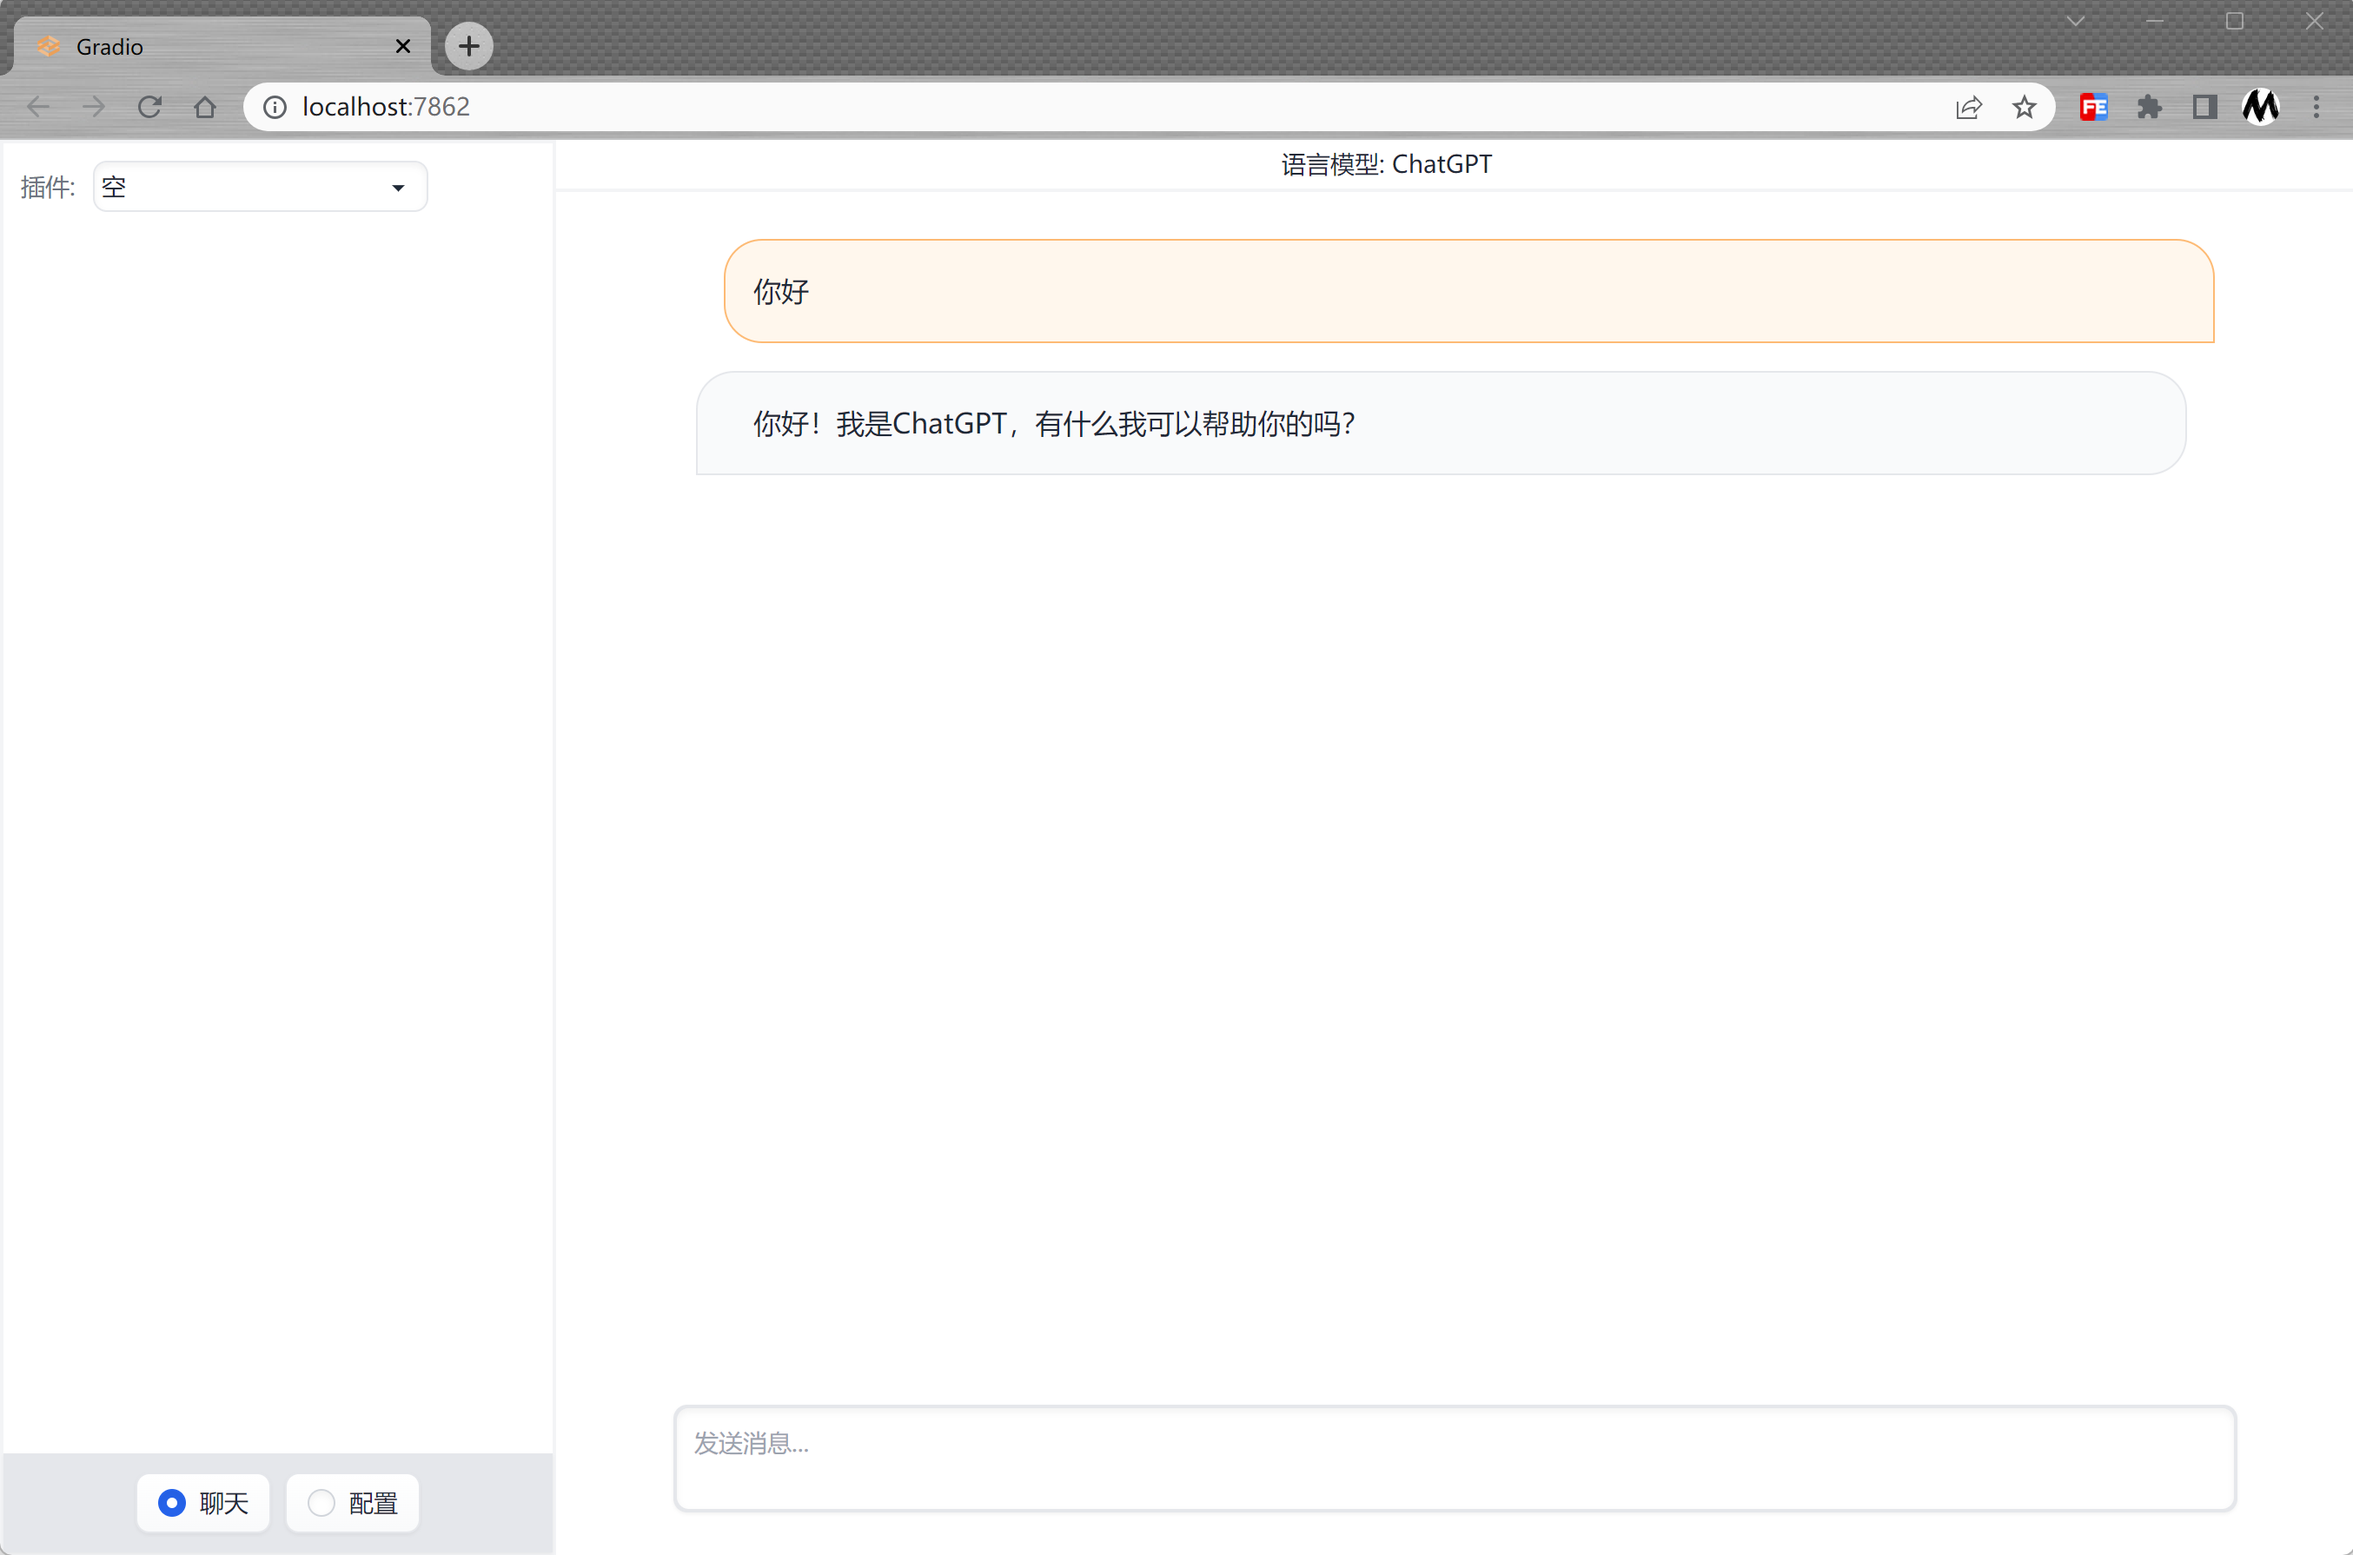
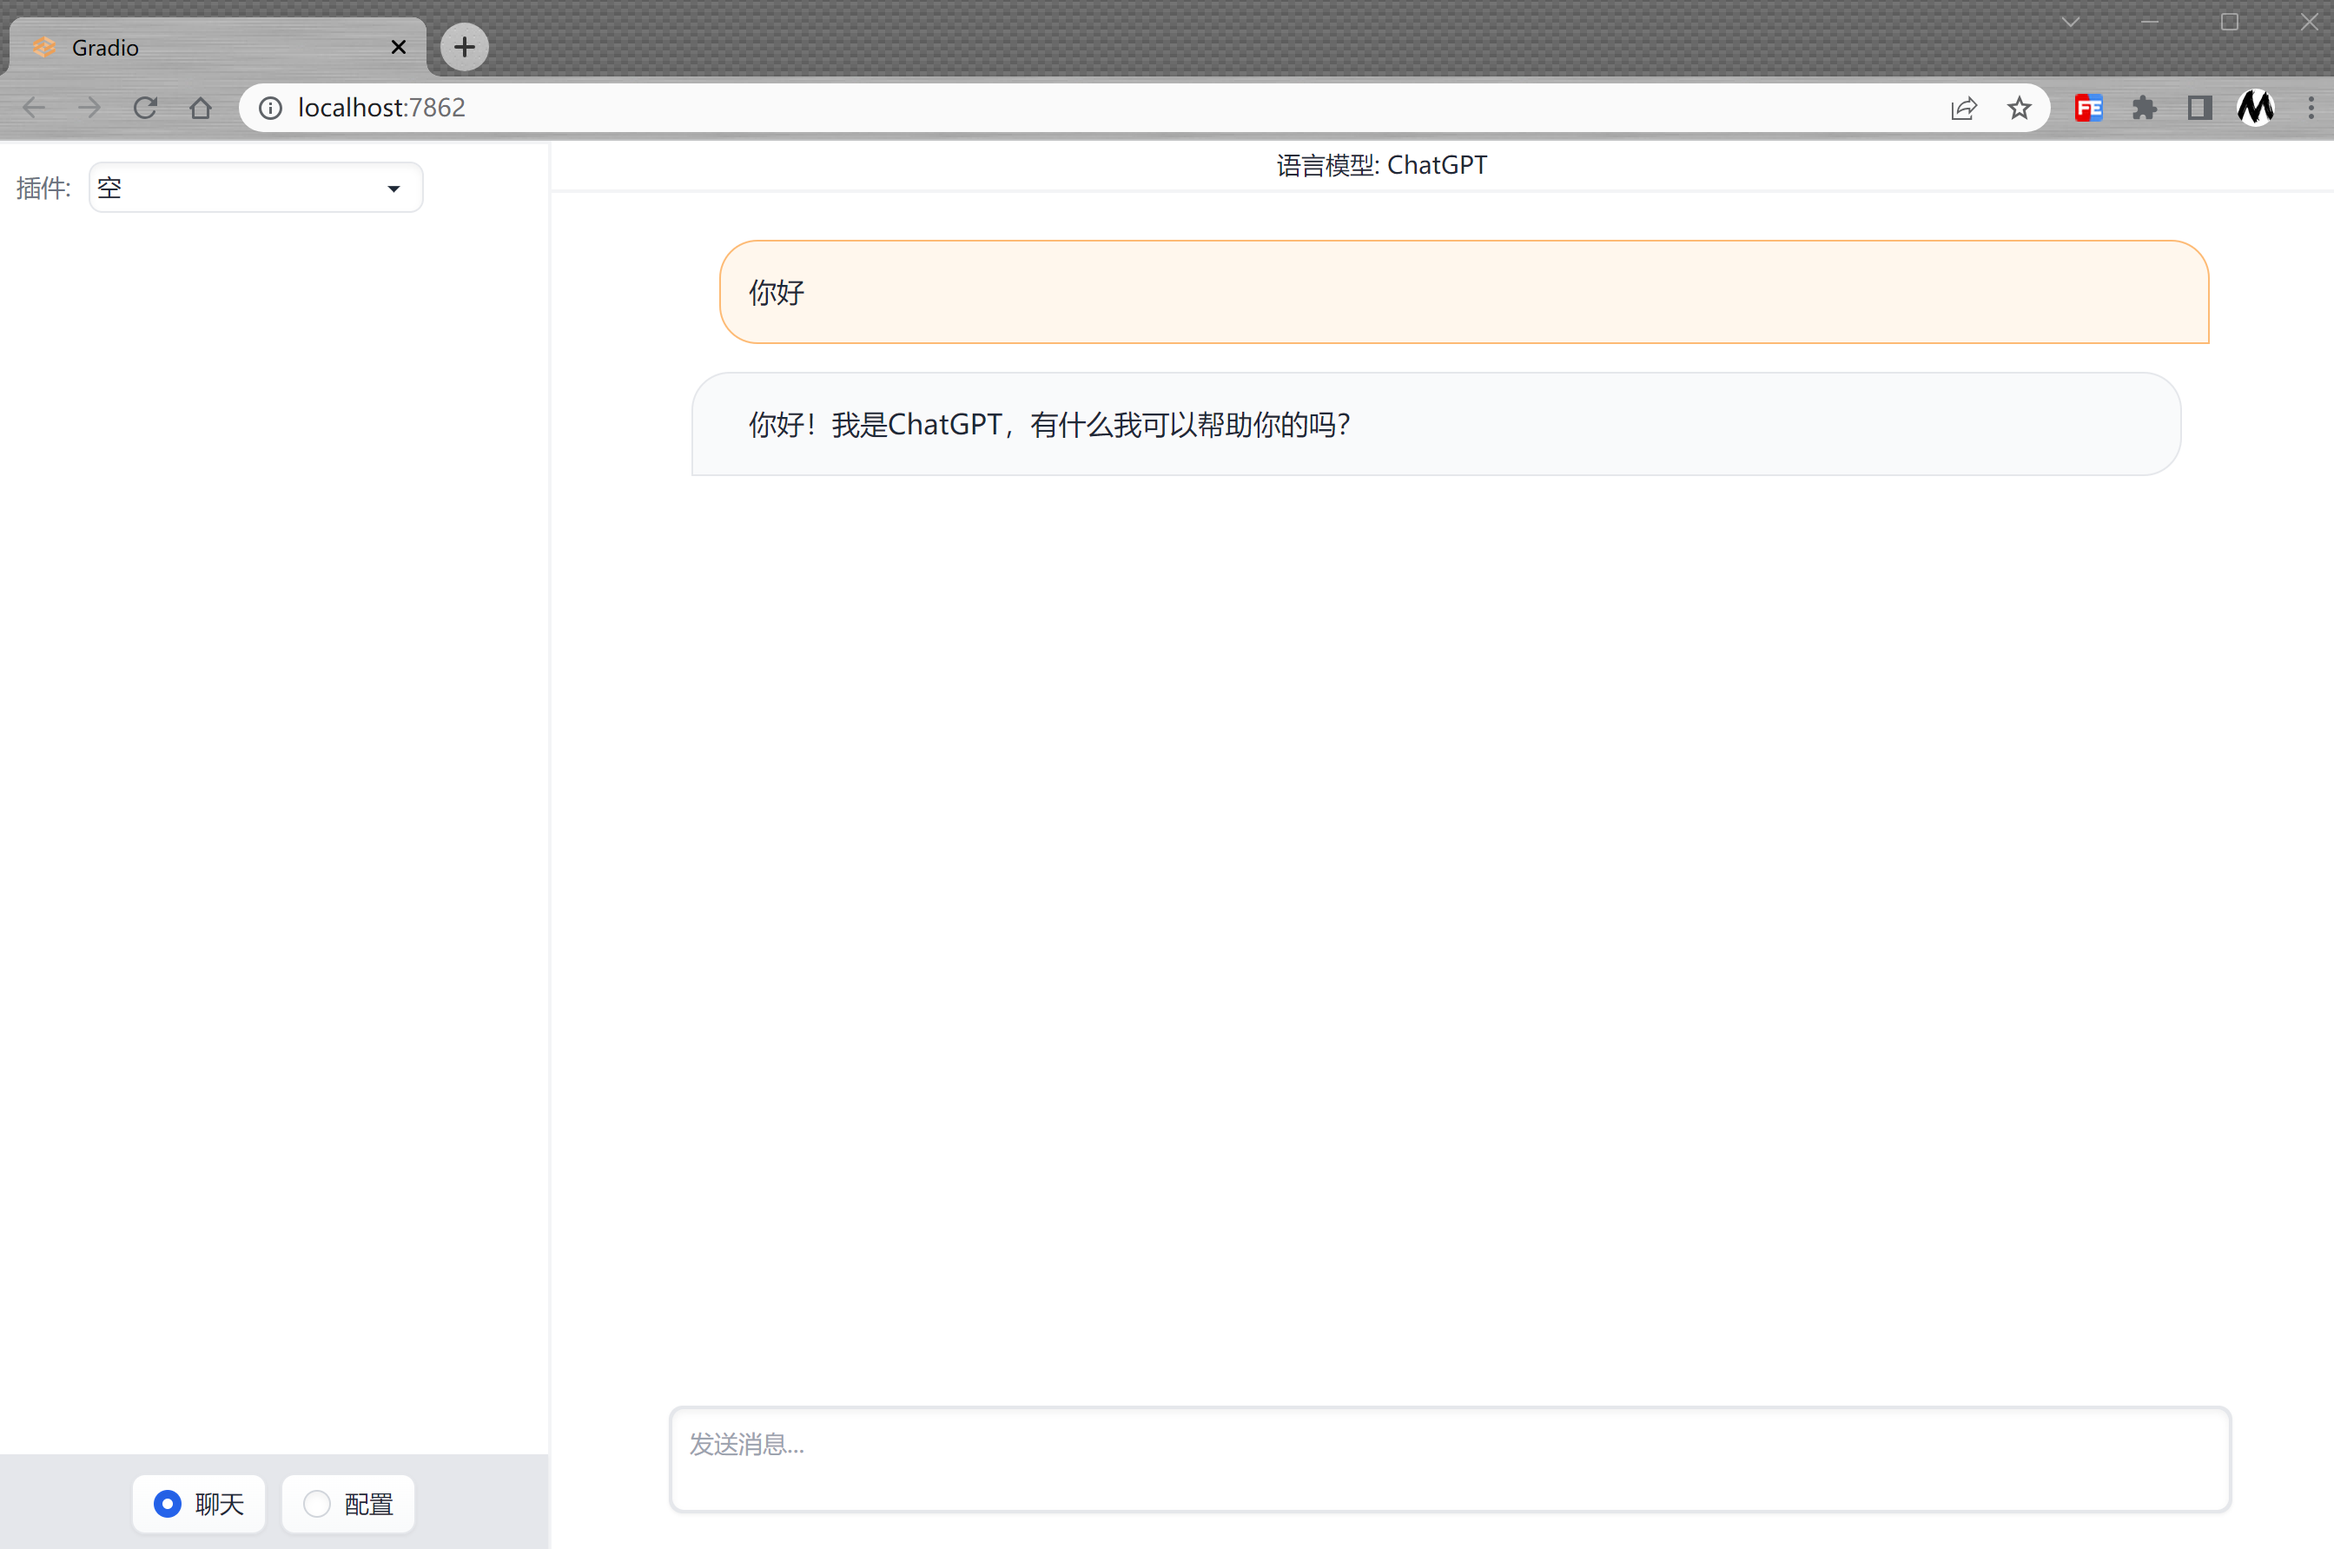
Lazy push: 2023年 07月 16日 星期日 19:58:18 CST

diff --git a/README.md b/README.md
@@ -1,7 +1,7 @@
 # AiChat
 
 <div align="center">
-	<img src="docs/images/首页.png" alt="Editor" width="500">
+	<img src="docs/images/首页.png" alt="Editor" width="75%">
 </div>
 
 ## 模型
